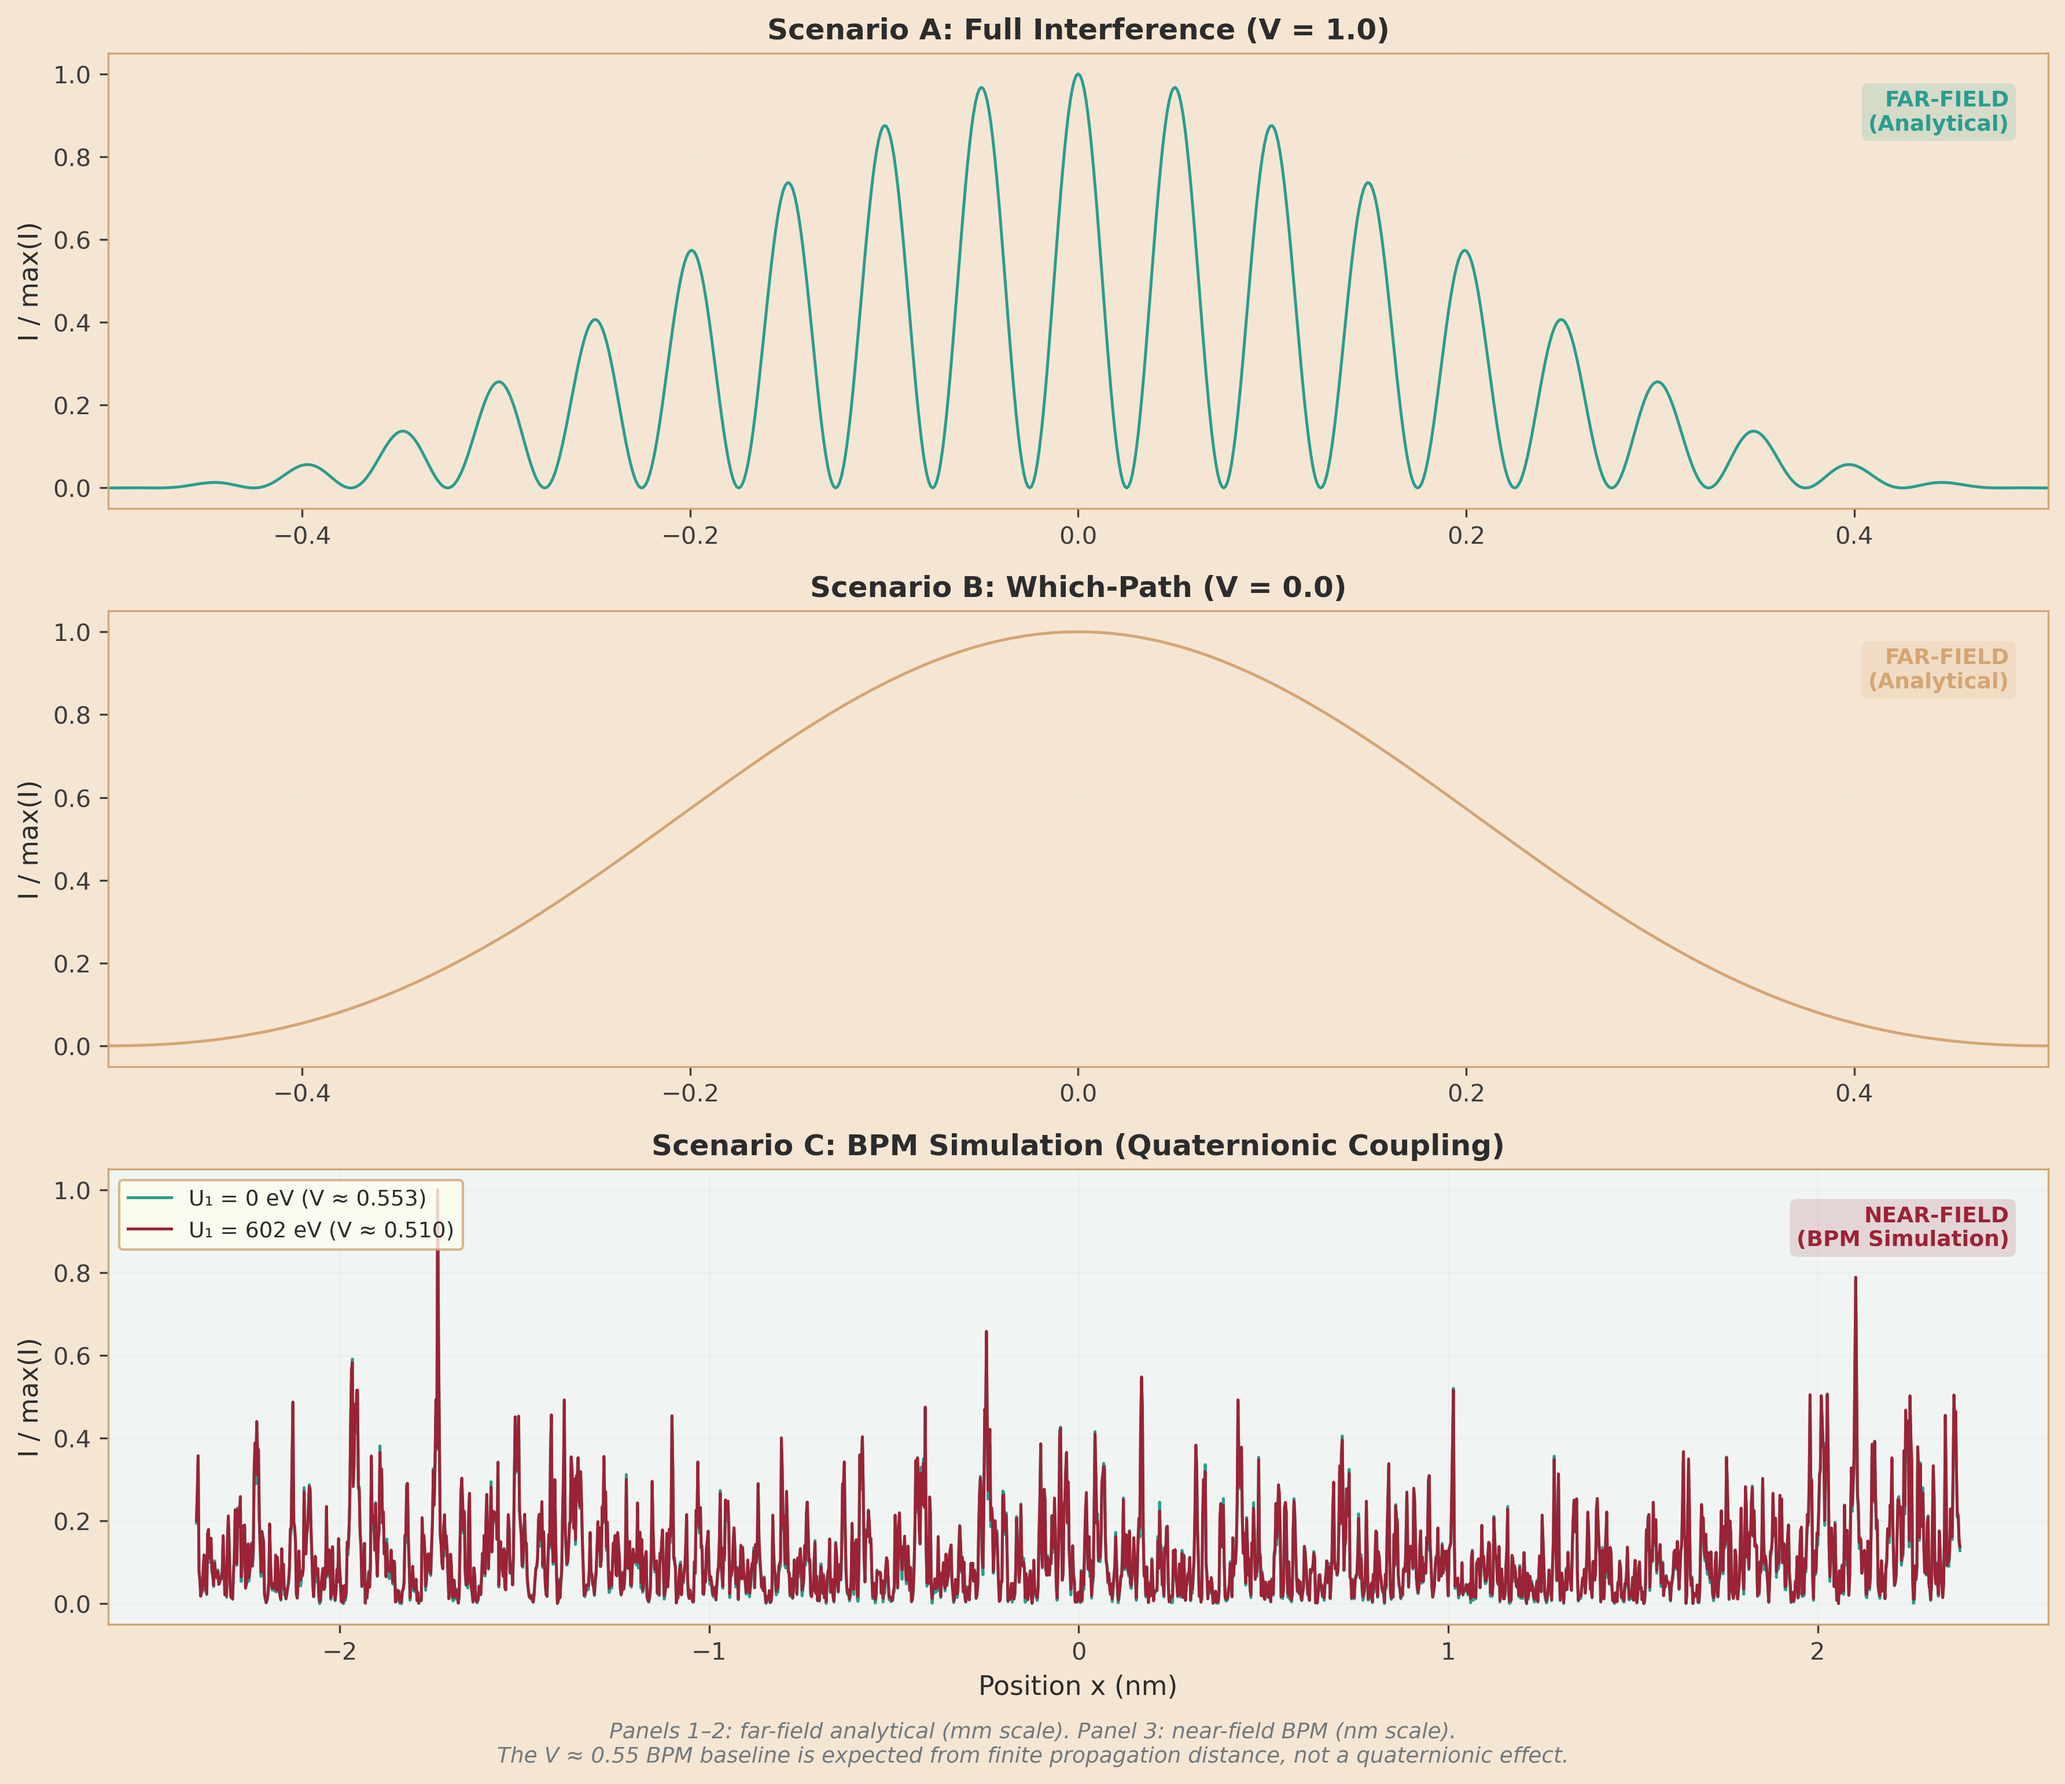
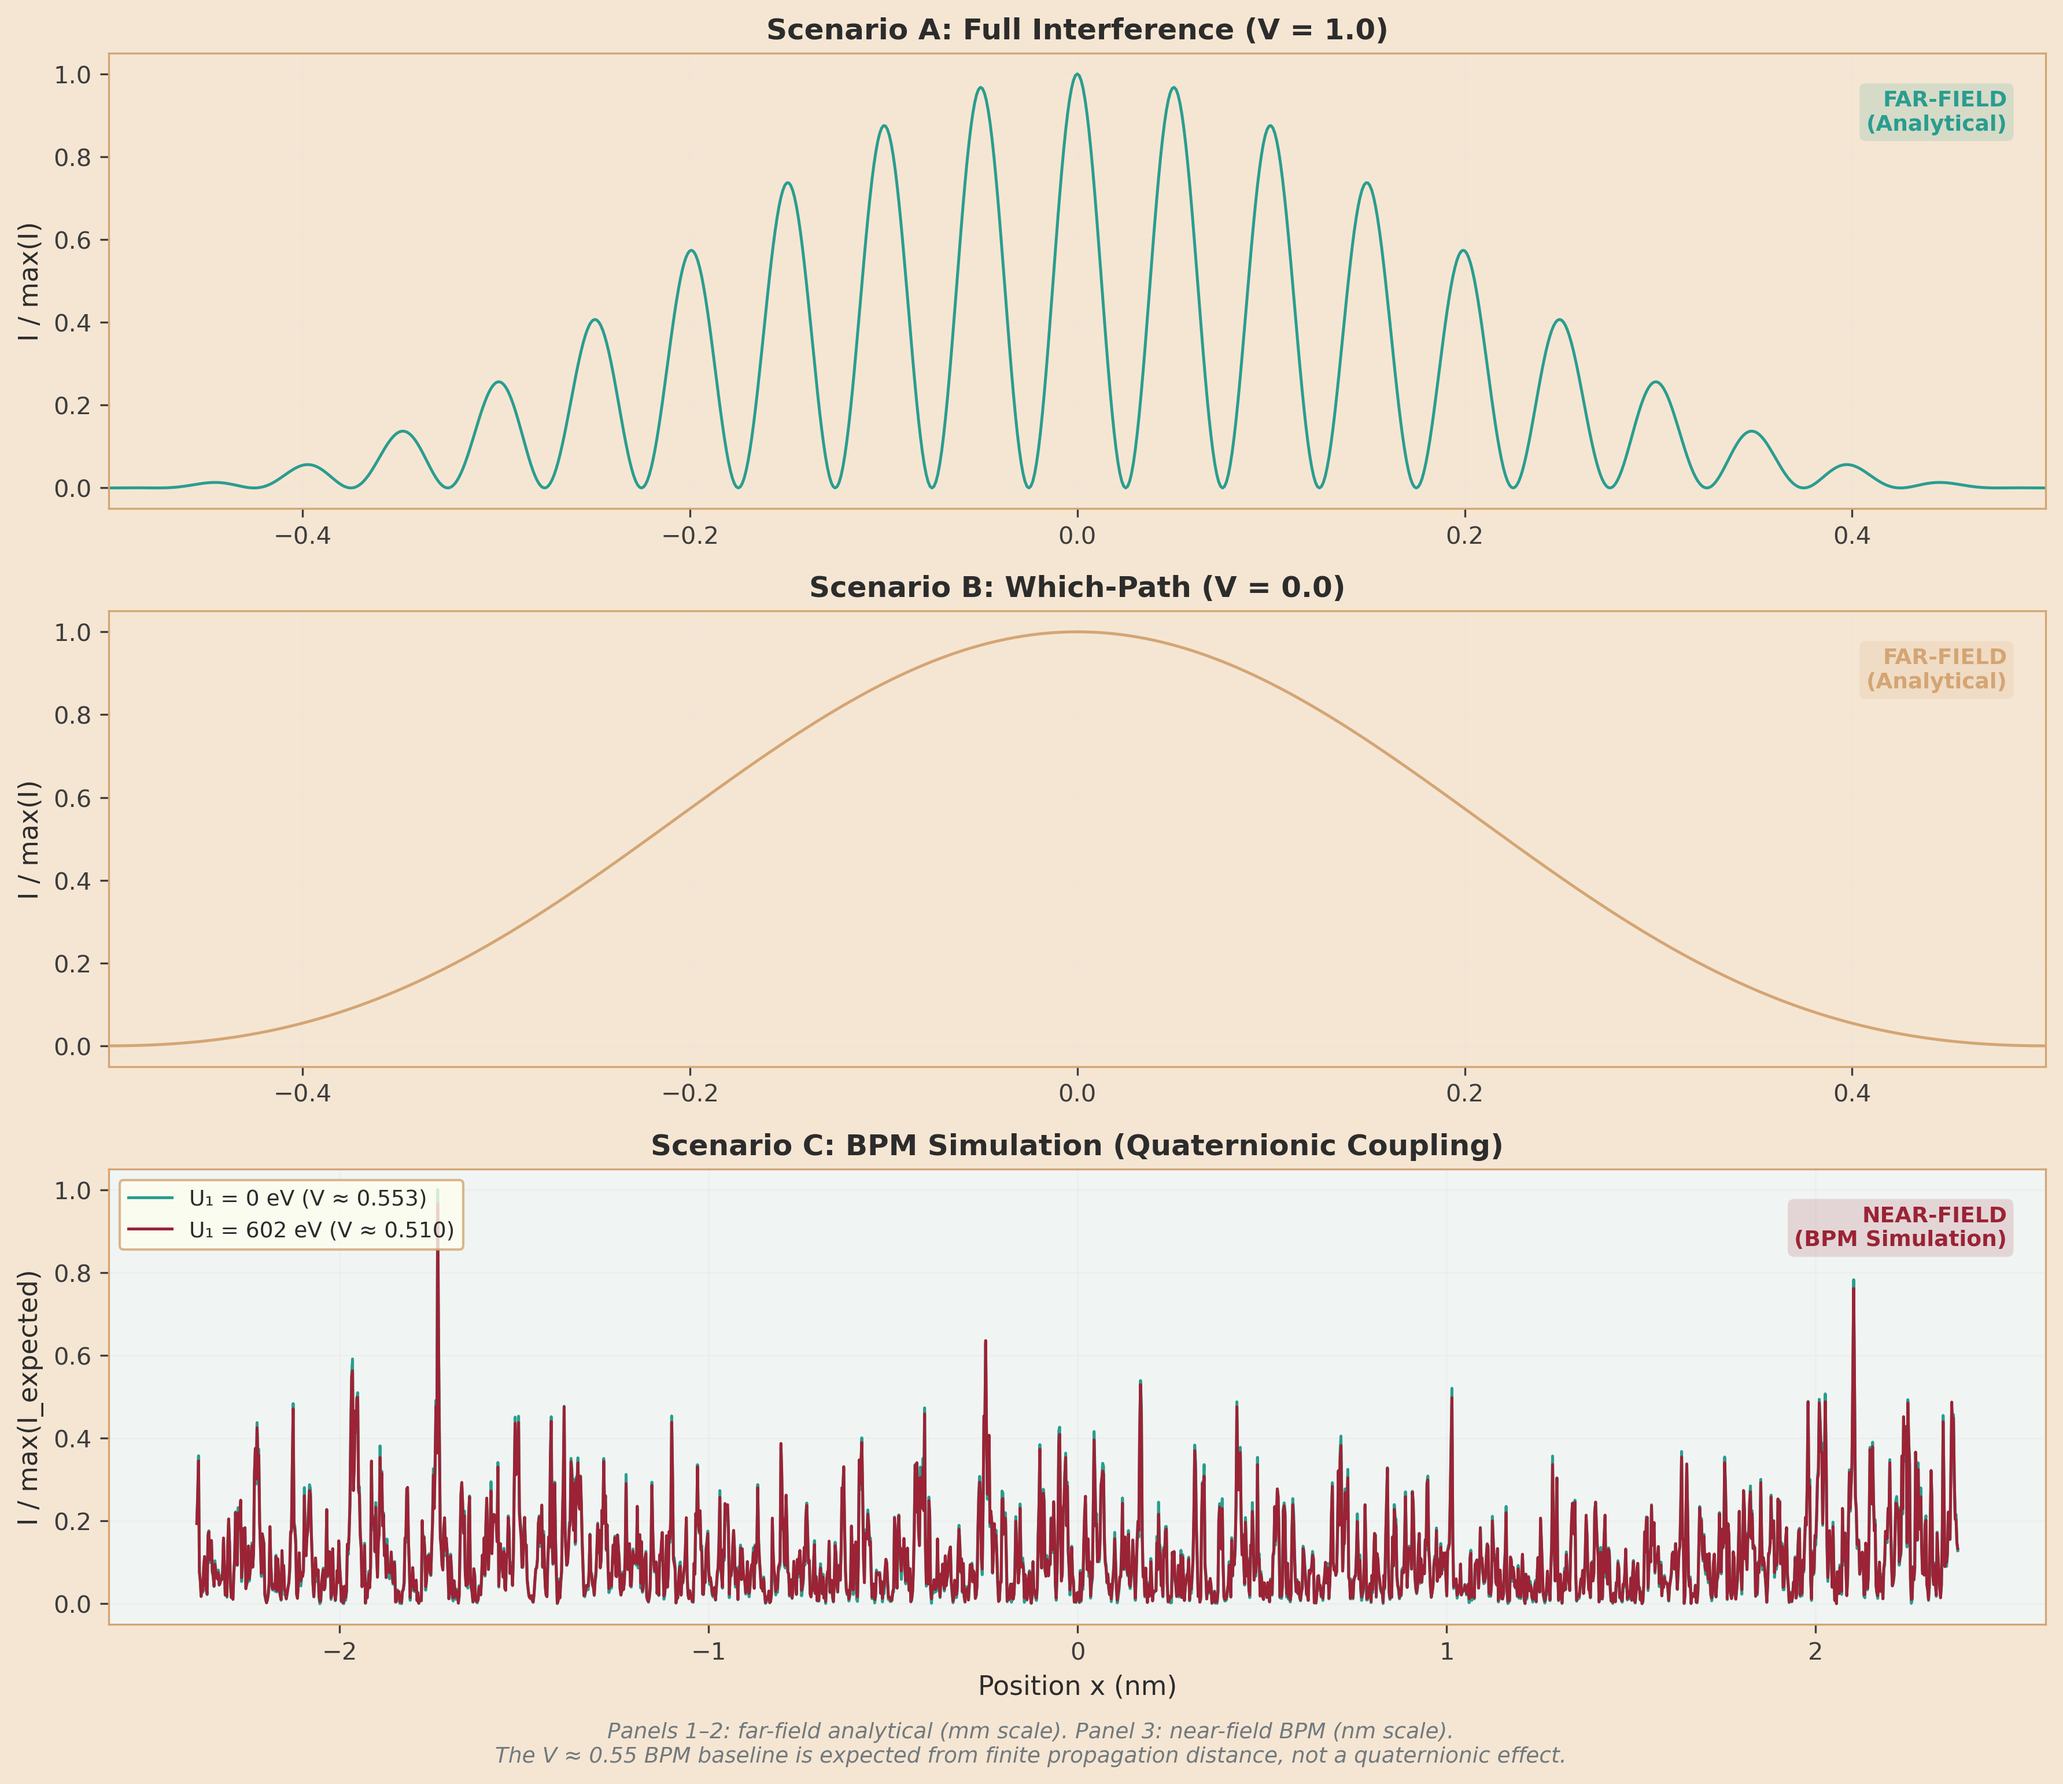
fix: Normalize Panel C to common reference, consistent with hero plots (#356)
Panel C in plot_fringe_comparison now normalizes both U₁=0 and U₁=max
curves to Expected's max (was: independent normalization). Y-axis label
updated to 'I / max(I_expected)'. Consistent with hero plot convention.

Closes #356

diff --git a/analysis/03_double_slit/analyze.py b/analysis/03_double_slit/analyze.py
@@ -535,12 +535,13 @@ def plot_fringe_comparison(
     ].sort_values("x_position_m")
 
     x_nm_base = c_base["x_position_m"].values * 1e9  # m → nm
-    i_base = c_base["intensity_total_normalized"].values
-    i_base = i_base / i_base.max()
+    i_base_raw = c_base["intensity_total_normalized"].values
+    max_ref = i_base_raw.max()  # Common reference: normalize both to Expected max
+    i_base = i_base_raw / max_ref
 
     x_nm_max = c_max["x_position_m"].values * 1e9
-    i_max_curve = c_max["intensity_total_normalized"].values
-    i_max_curve = i_max_curve / i_max_curve.max()
+    i_max_raw = c_max["intensity_total_normalized"].values
+    i_max_curve = i_max_raw / max_ref  # Same reference — consistent with hero plots
 
     ax.plot(
         x_nm_base,
@@ -558,7 +559,7 @@ def plot_fringe_comparison(
     )
 
     ax.set_xlabel("Position x (nm)", fontsize=11)
-    ax.set_ylabel("I / max(I)", fontsize=11)
+    ax.set_ylabel("I / max(I_expected)", fontsize=11)
     ax.set_title(
         "Scenario C: BPM Simulation (Quaternionic Coupling)",
         fontsize=12,
